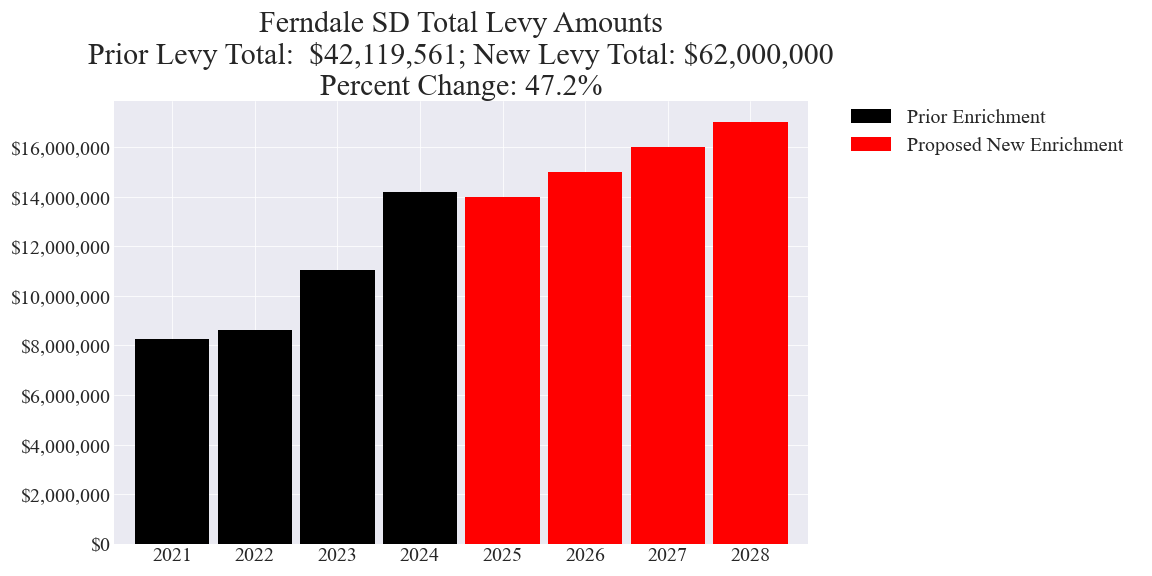
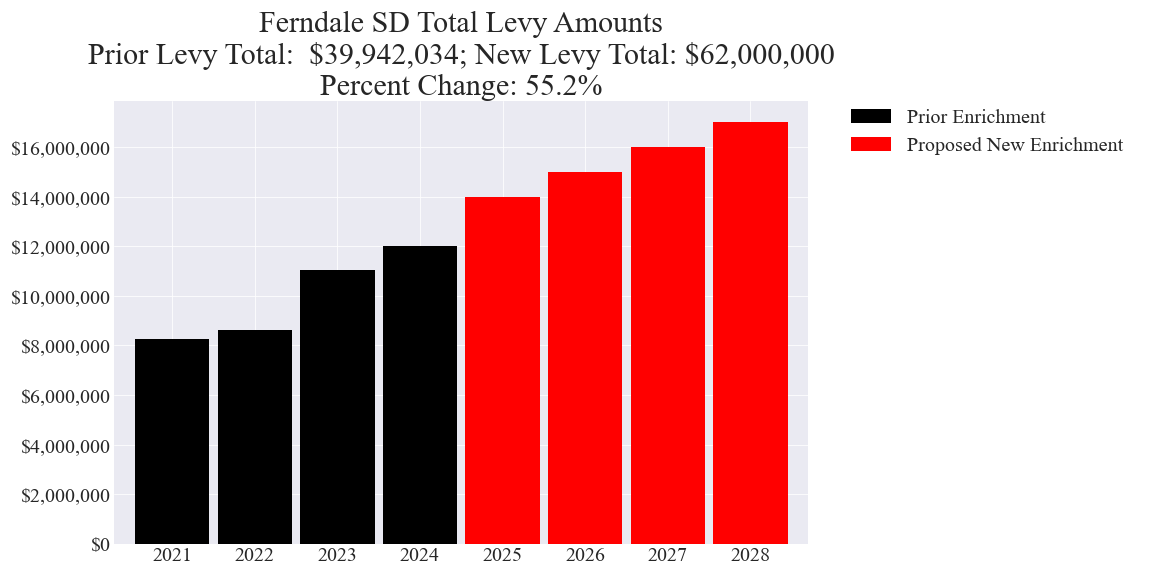
Updated Ferndale SD data

Changed region(s): [[0.2812, 0.0625, 0.7188, 0.1562], [0.3125, 0.3125, 0.4062, 0.4375]]

diff --git a/_includes/cost_estimates/20240213/Ferndale_Enrichment_20240213_Enhanced.html b/_includes/cost_estimates/20240213/Ferndale_Enrichment_20240213_Enhanced.html
@@ -19,7 +19,7 @@
 	totalLevyCostParcel = sampleParcelPOF * totalLevyCost;
 	levyYears = 4;
 	averageTotalLevyCostParcel = totalLevyCostParcel / levyYears;
-	totalLevyPriorCost = 42119561.0;
+	totalLevyPriorCost = 39942034.0;
 	totalLevyPriorCostParcel = sampleParcelPOF * totalLevyPriorCost;
 	averageTotalLevyPriorCostParcel = totalLevyPriorCostParcel / levyYears;
 	// POF Annual Change Percent
@@ -40,7 +40,7 @@
 			['2021', 8272208, 0],
 			['2022', 8616923, 0],
 			['2023', 11052903, 0],
-			['2024', 14177527, 0],
+			['2024', 12000000, 0],
 			['2025', 0, 14000000],
 			['2026', 0, 15000000],
 			['2027', 0, 16000000],
